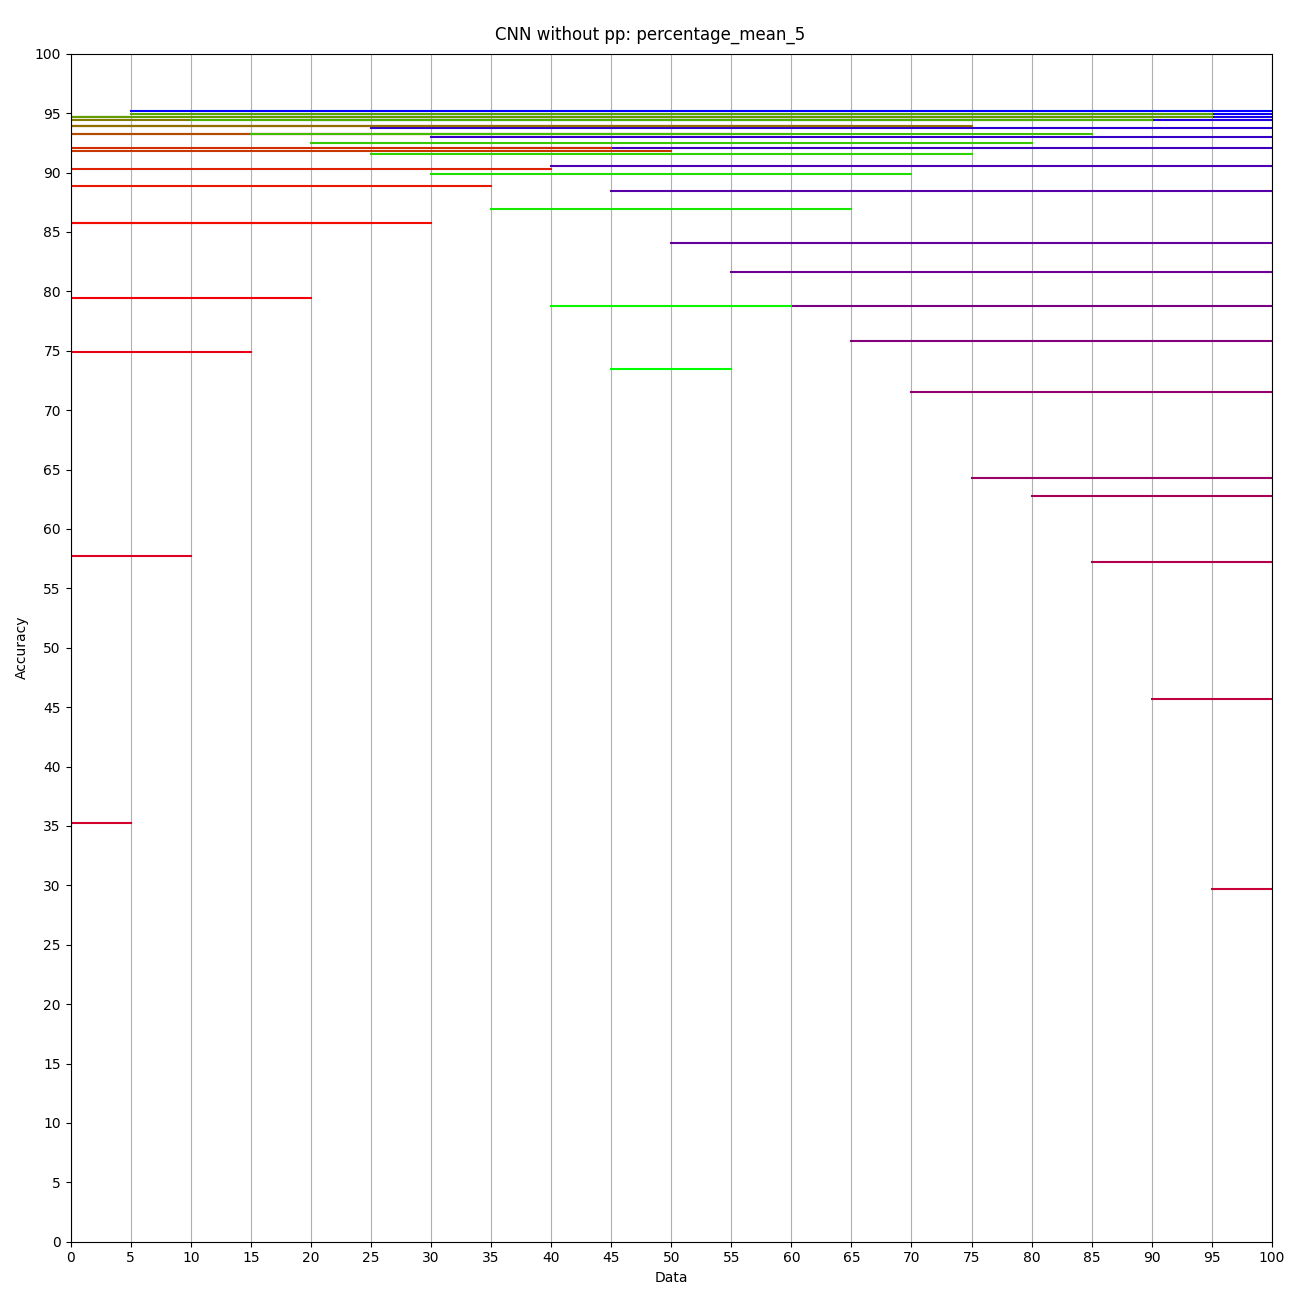
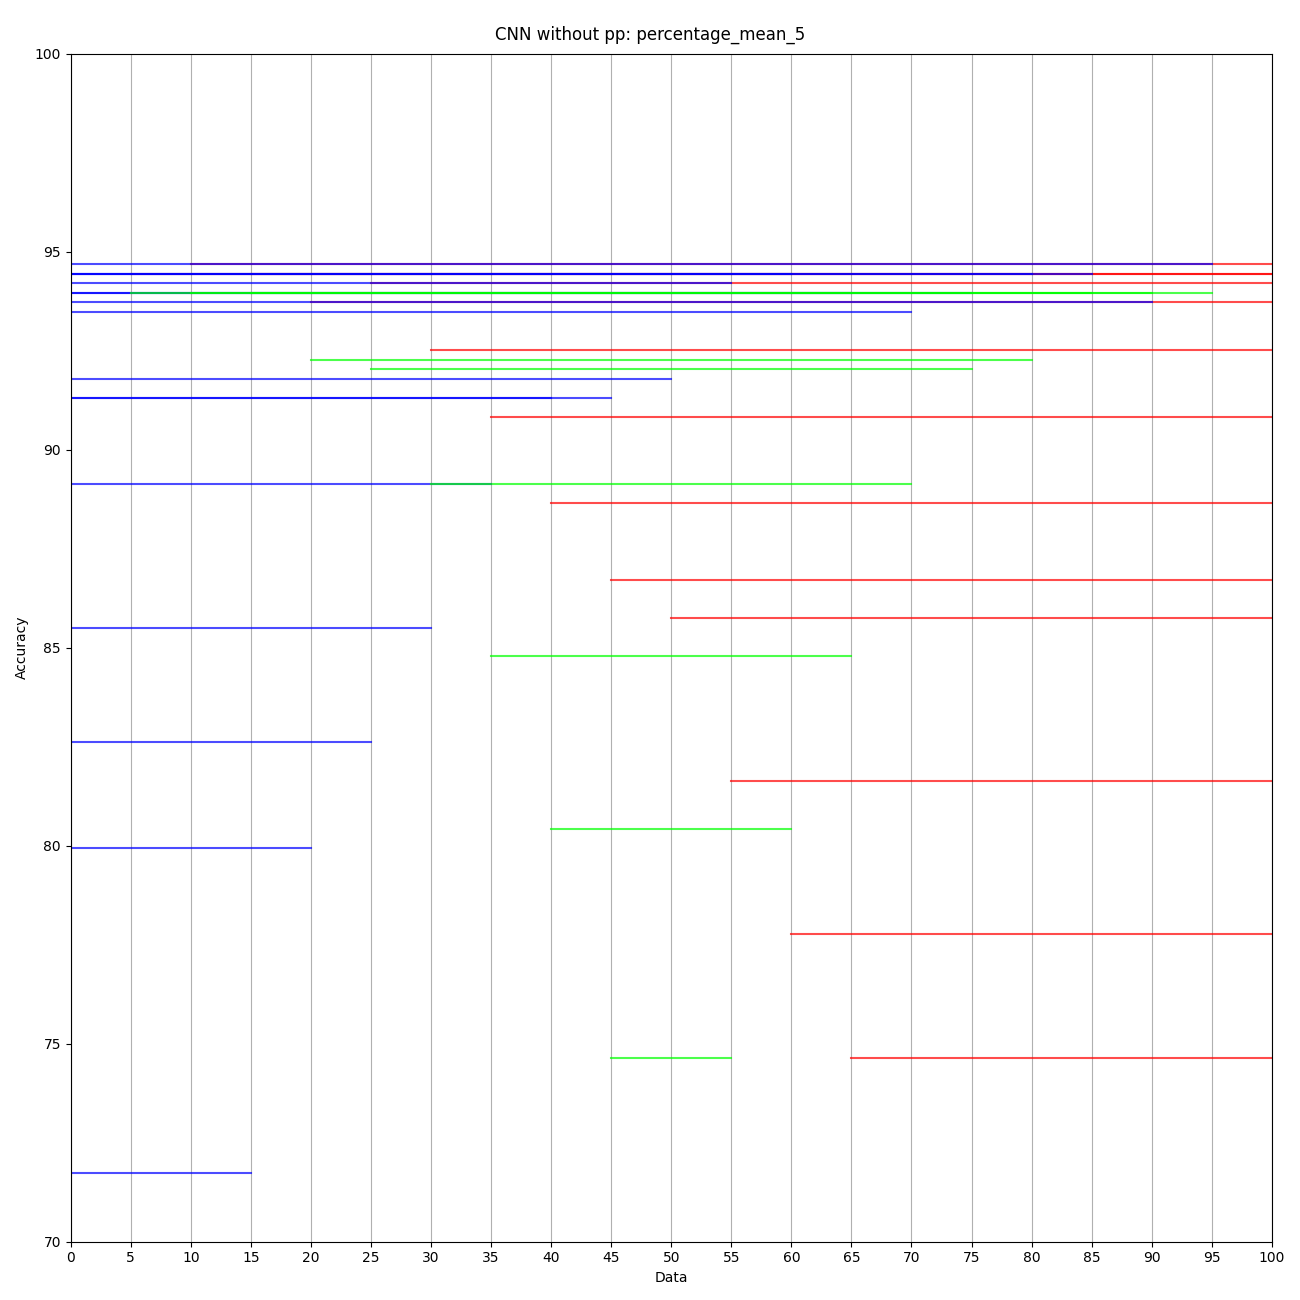
Updated jump core detection plots

diff --git a/neural_networks.py b/neural_networks.py
@@ -336,7 +336,7 @@ def jump_core_detection(modeltype, data_train, data_test, pp_list, jump_length=0
 
             x_train, y_train, x_test, y_test, jump_data_length, num_columns, num_classes = prepare_data(data_train_copy, data_test_copy, pp_list)
 
-            model = run_multiple_times(jump_data_length, num_columns, num_classes, runs=3, conv=3, kernel=3, pool=2,
+            model = run_multiple_times(jump_data_length, num_columns, num_classes, runs=2, conv=3, kernel=3, pool=2,
                                        dense=2, act_func='tanh', loss='categorical_crossentropy', optim='Nadam', epochs=40,
                                        x_train=x_train, y_train=y_train, x_test=x_test, y_test=y_test)
             score = model.evaluate(x_test, y_test, verbose=1)
@@ -356,7 +356,7 @@ def jump_core_detection(modeltype, data_train, data_test, pp_list, jump_length=0
 
             x_train, y_train, x_test, y_test, num_columns, num_classes = prepare_data_oneliner(data_train_copy, data_test_copy, pp_list)
 
-            model = run_multiple_times_oneliner(num_columns, num_classes, runs=5, act_func='relu',
+            model = run_multiple_times_oneliner(num_columns, num_classes, runs=3, act_func='relu',
                                                 loss='categorical_crossentropy', optim='Nadam', epochs=100,
                                                 x_train=x_train, y_train=y_train, x_test=x_test, y_test=y_test)
             score = model.evaluate(x_test, y_test, verbose=1)
@@ -369,21 +369,29 @@ def jump_core_detection(modeltype, data_train, data_test, pp_list, jump_length=0
 
     print(scores)
 
+    min_y_value = 70
     plt.figure(figsize=(13, 13))
-    plt.suptitle('DFF without pp: percentage_mean_std_20')
+    plt.suptitle('DFF with pp: percentage_mean_std_25')
     plt.xlabel('Data')
     plt.ylabel('Accuracy')
-    plt.axis([0, full_list[-1], 0, 100])
+    plt.axis([0, full_list[-1], min_y_value, 100])
     plt.xticks(range(0, 100 + percentage, percentage))
-    plt.yticks(range(0, 105, 5))
+    plt.yticks(range(min_y_value, 105, 5))
     plt.grid(True, axis='x')
-    cmap = process_cmap('brg', len(scores))
+    #cmap = process_cmap('brg', len(scores))
 
     for i in range(len(scores)):
         entry = list(scores.items())[i]
         start, end = entry[0].split('-')
         acc = entry[1] * 100
-        plt.axhline(acc, (int(start) / 100), (int(end) + percentage) / 100, color=cmap[i])
+        if int(acc) >= min_y_value:
+            if start.replace(' ', '') == '0':
+                plt.axhline(acc, (int(start) / 100), (int(end) + percentage) / 100, color='#0000ff', alpha=0.7)
+            elif end.replace(' ', '') == str(full_list[-1]):
+                plt.axhline(acc, (int(start) / 100), (int(end) + percentage) / 100, color='#ff0000', alpha=0.7)
+            else:
+                plt.axhline(acc, (int(start) / 100), (int(end) + percentage) / 100, color='#00ff00', alpha=0.7)
+
 
     plt.show()
 
@@ -458,8 +466,8 @@ def main():
     neural_network = 'dff'  # 'dff'  'cnn'
     run_modus = 'core'     # 'multi' 'grid' 'core'
     run = 50                # for multi runs or how often random grid search runs
-    data_train = pd.read_csv("Sprungdaten_processed/without_preprocessed/percentage/20/vector_percentage_mean_std_20_train.csv")
-    data_test = pd.read_csv("Sprungdaten_processed/without_preprocessed/percentage/20/vector_percentage_mean_std_20_test.csv")
+    data_train = pd.read_csv("Sprungdaten_processed/with_preprocessed/percentage/25/vector_percentage_mean_std_25_train.csv")
+    data_test = pd.read_csv("Sprungdaten_processed/with_preprocessed/percentage/25/vector_percentage_mean_std_25_test.csv")
     pp_list = [3]
 
     if neural_network == 'cnn':
